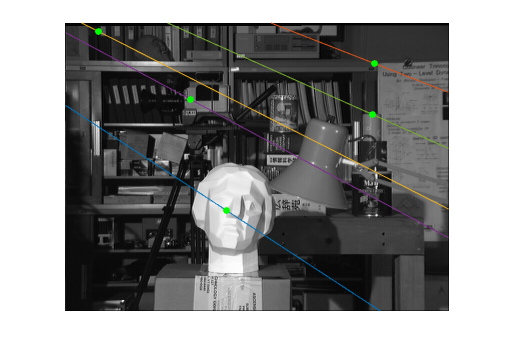
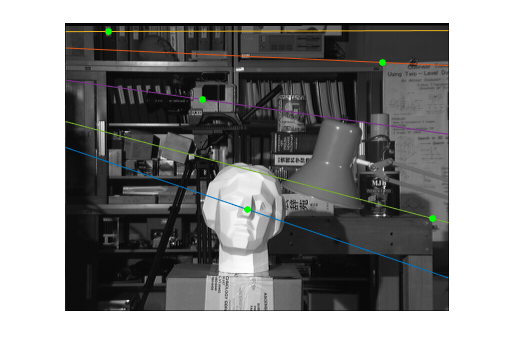
epiPoleLines function updated to output both lines in the A and the B picture. Also thus fixed Q1.3.d, and the output pics. Q.2.2.a and Q.2.2.b are done, hence the new .mat file. q2_2_a.m was renamed toq2_2_ab.m since one script did both. Images from Q2.2.a and Q2.2.b are also included.

diff --git a/src/q2_2_ab.m b/src/q2_2_ab.m
@@ -1,0 +1,133 @@
+%% Question 2 Part 1 Section A and B
+clear;
+close all;
+if ismac
+    addpath('../res/kitchen');
+    addpath('../res');
+    outputpath = ('../');
+else
+    addpath('res/kitchen');
+    addpath('../res');
+    outputpath = ('');
+end
+
+newPoints = false;
+
+if newPoints 
+    [coordA, coordB] = q1_manual_9('FD1.pgm', 'FD2.pgm');
+    [~, coordC] = q1_manual_9('FD2.pgm', 'FD3.pgm');
+    save([outputpath, 'res/q2_2_a.mat'], ...
+        'coordA', 'coordB', 'coordC');
+else
+    load('q2_2_a.mat');
+end
+
+imgA = imread('FD1.pgm');
+imgB = imread('FD2.pgm');
+
+%% Choosing which combination
+choice = 0;
+
+if choice == 1
+    coordA = coordB;
+    coordB = coordC;
+    imgA = imread('FD2.pgm');
+    imgB = imread('FD3.pgm');
+end
+
+if choice == 2
+    temp = coordC;
+    coordC = coordA;
+    coordA = temp;
+    imgA = imread('FD3.pgm');
+    imgB = imread('FD1.pgm');
+end
+    
+
+%% Display matching.
+figure('position', [0 0 1280 800]);
+p1 = cornerPoints(coordA');
+p2 = cornerPoints(coordB');
+showMatchedFeatures(imgA, imgB, p1, p2);
+fig = gcf;
+fig.PaperPositionMode = 'auto';
+print([outputpath, 'pic/q2_2_ab_match_', num2str(choice)],'-dpng','-r0');
+
+%% Acquire fundamental matrix. Acquire epipole and lines. Plot. For A vs. B
+
+F = estFundamentalMat(coordA, coordB);
+[epiLinesA, epiLinesB, epiPole] = epiPolesLines(coordA, F, [NaN NaN]);
+
+% Calculate lines. 
+imgWidth = size(imgA, 2);
+N = size(epiLinesA, 1);
+
+xpoints = repmat(1:imgWidth, N, 1)';
+
+ypointsA = zeros(imgWidth, N);
+for index = 1:N
+    ypointsA(:, index) = [1:imgWidth]' .* epiLinesA(index, 1) + epiLinesA(index, 2);
+end
+
+ypointsB = zeros(imgWidth, N);
+for index = 1:N
+    ypointsB(:, index) = [1:imgWidth]' .* epiLinesB(index, 1) + epiLinesB(index, 2);
+end
+
+% Plot
+figure('position', [0 0 1280 800]);
+imshow([imgA imgB]);
+title(['Epipole A location: ', num2str(epiPole')]);
+hold on;
+% Lines
+plot(xpoints, ypointsA, 'b');
+plot(xpoints + imgWidth, ypointsB, 'g');
+% Points
+scatter(coordA(1, :), coordA(2, :), 50, 'o', 'filled', 'b');
+scatter(coordB(1, :)+ imgWidth, coordB(2, :), 50, 'o', 'filled', 'g');
+% Numbering
+text(coordA(1, :), coordA(2, :), num2cell(1:9), 'FontSize', 20, 'color', 'g');
+text(coordB(1, :)+ imgWidth, coordB(2, :), num2cell(1:9), 'FontSize', 20, 'color', 'b');
+hold off;
+% Format and saving
+set(findall(gcf,'type','text'),'fontSize',25);
+set(gcf, 'Position', get(0,'Screensize')); % Maximize figure.
+fig = gcf;
+fig.PaperPositionMode = 'auto';
+print([outputpath, 'pic/q2_2_ab_A_', num2str(choice)],'-dpng','-r0');
+
+%% Acquire fundamental matrix. Acquire epipole and lines. Plot. For B vs. A
+[epiLinesA, epiLinesB, epiPole] = epiPolesLines(coordB, F', [NaN NaN]);
+
+% Calculate lines. 
+imgWidth = size(imgB, 2);
+N = size(epiLinesA, 1);
+
+xpoints = repmat(1:imgWidth, N, 1)';
+
+ypointsA = zeros(imgWidth, N);
+for index = 1:N
+    ypointsA(:, index) = [1:imgWidth]' .* epiLinesA(index, 1) + epiLinesA(index, 2);
+end
+
+% Plot
+figure('position', [0 0 1280 800]);
+imshow([imgB imgA]);
+title(['Epipole B location: ', num2str(epiPole')]);
+hold on;
+% Lines
+plot(xpoints, ypointsA, 'b');
+plot(xpoints + imgWidth, ypointsB, 'g');
+% Points
+scatter(coordA(1, :), coordA(2, :), 50, 'o', 'filled', 'b');
+scatter(coordB(1, :)+ imgWidth, coordB(2, :), 50, 'o', 'filled', 'g');
+% Numbering
+text(coordA(1, :), coordA(2, :), num2cell(1:9), 'FontSize', 20, 'color', 'g');
+text(coordB(1, :)+ imgWidth, coordB(2, :), num2cell(1:9), 'FontSize', 20, 'color', 'b');
+hold off;
+% Formatting and saving
+set(findall(gcf,'type','text'),'fontSize',25);
+set(gcf, 'Position', get(0,'Screensize')); % Maximize figure.
+fig = gcf;
+fig.PaperPositionMode = 'auto';
+print([outputpath, 'pic/q2_2_ab_B_', num2str(choice)],'-dpng','-r0');

diff --git a/src/epiPolesLines.m b/src/epiPolesLines.m
@@ -1,4 +1,4 @@
-function [ epiLines, epiPole ] = epiPolesLines( coord, F, baseLine )
+function [ epiLinesA, epiLinesB, epiPole ] = epiPolesLines( coord, F, baseLine )
 %EPIPOLESLINES Takes Fundamental matrix, coordinates, finds epipoles/lines.
 %   In: Coord of points in Img (2 x N)
 %       Fundamental matrix (3 x 3)
@@ -15,8 +15,12 @@ function [ epiLines, epiPole ] = epiPolesLines( coord, F, baseLine )
     Xdisp = baseLine(1);
     Ydisp = baseLine(2);
     
-    % Output in form n x 2. [m x] for each row where y = mx + b
-    epiLines = zeros(N, 2);
+    % Output in form n x 2. [m b] for each row where y = mx + b
+    % Lines in Img A
+    epiLinesA = zeros(N, 2);
+    % Lines in Img B
+    epiLinesB = zeros(N, 2);
+
         
     % Check if epiPole is possible.
     if sum(isfinite(epiPole)) ~= 3
@@ -26,17 +30,18 @@ function [ epiLines, epiPole ] = epiPolesLines( coord, F, baseLine )
         if Xdisp < Ydisp
             for index = 1:N
                 xA = coord(1, index);
-                epiLines(index, :) = [1 0 -xA];
+                epiLinesA(index, :) = [1 0 -xA];
             end
         % If horizontal is more, then camera moved left/right, horizontal.
         else
             for index = 1:N
                 yA = coord(2, index);
-                epiLines(index, :) = [0 1 -yA];
+                epiLinesA(index, :) = [0 1 -yA];
             end
         end
     % If lines not parallel
     else
+        % Lines in A go through each point and the epiPole.
         for index = 1:N
             x1 = coord(1, index);
             y1 = coord(2, index);
@@ -46,7 +51,12 @@ function [ epiLines, epiPole ] = epiPolesLines( coord, F, baseLine )
 
             m = (y2 - y1)/(x2 - x1);
             b = y2 - m * x2;
-            epiLines(index, :) = [m, b];
+            epiLinesA(index, :) = [m, b];
+            
+            % Lines in B are found through F * xA, which gives [a b c]
+            % ax + by + c = 0. Convert to m and x form. 
+            temp = F * [coord(:, index); 1];
+            epiLinesB(index, :) = [-temp(1)/temp(2), -temp(3)/temp(2)];
         end
     end
     
